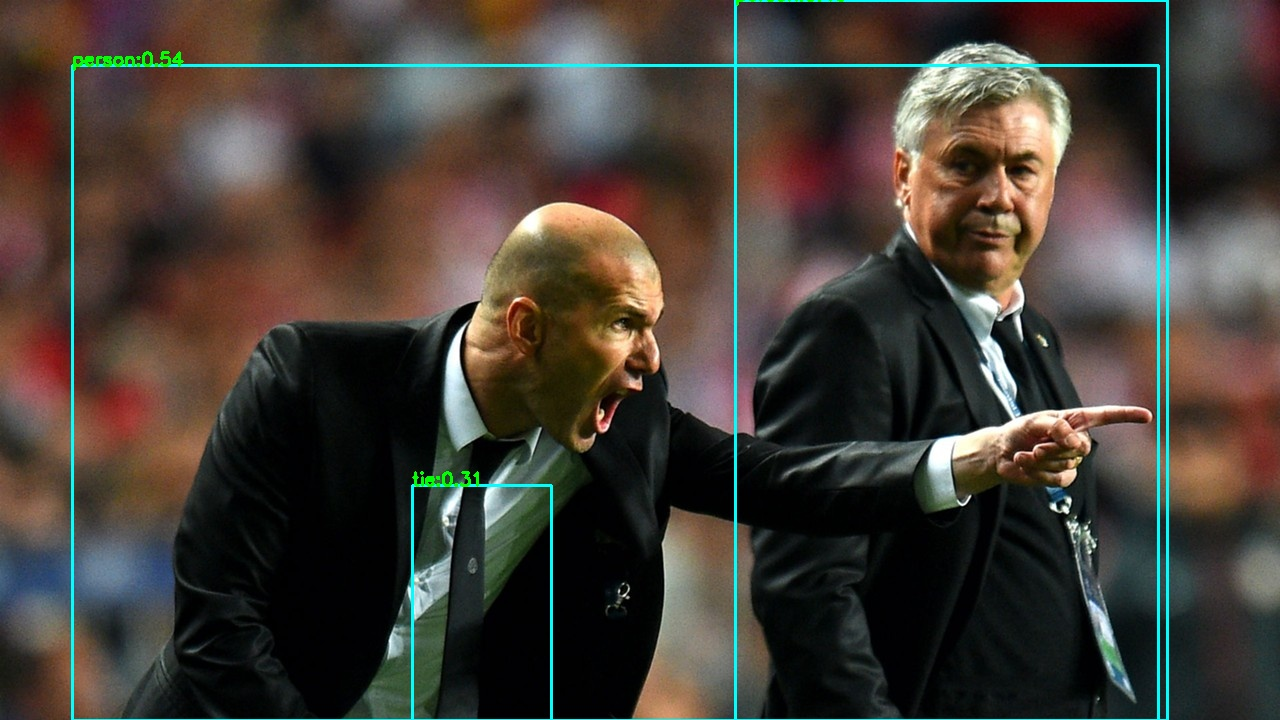
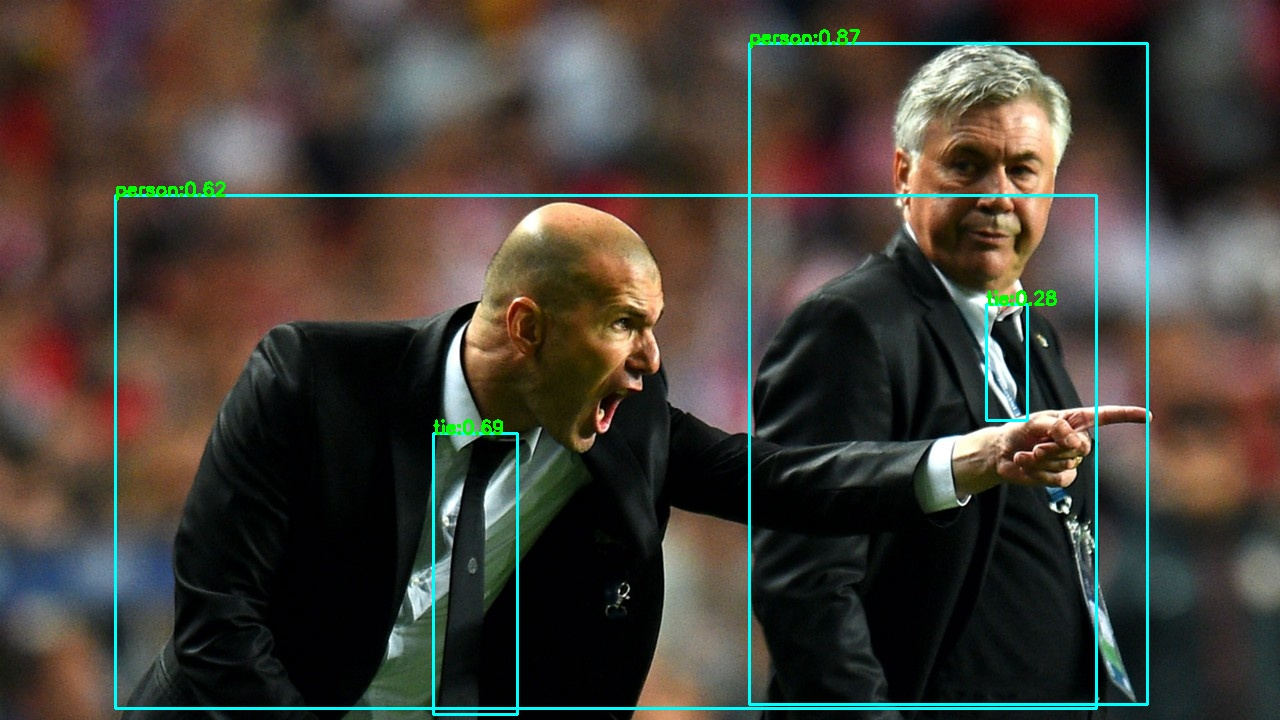
fixed YOLOX and YOLOV5 preprocess (#80)

Changed region(s): [[0.0312, 0.0, 0.9375, 1.0]]

diff --git a/lite/mnn/cv/mnn_yolox.cpp b/lite/mnn/cv/mnn_yolox.cpp
@@ -25,10 +25,9 @@ inline void MNNYoloX::initialize_pretreat()
   );
 }
 
-void MNNYoloX::transform(const cv::Mat &mat)
+void MNNYoloX::transform(const cv::Mat &mat_rs)
 {
-  cv::Mat canvas = mat.clone();
-  // cv::resize(canvas, canvas, cv::Size(input_width, input_height));
+  cv::Mat canvas = mat_rs.clone();
   // normalize & HWC -> CHW & BGR -> RGB
   pretreat->convert(canvas.data, input_width, input_height, canvas.step[0], input_tensor);
 }
@@ -75,6 +74,9 @@ void MNNYoloX::detect(const cv::Mat &mat, std::vector<types::Boxf> &detected_box
                       unsigned int topk, unsigned int nms_type)
 {
   if (mat.empty()) return;
+  int img_height = static_cast<int>(mat.rows);
+  int img_width = static_cast<int>(mat.cols);
+
   // resize & unscale
   cv::Mat mat_rs;
   YoloXScaleParams scale_params;
@@ -87,7 +89,7 @@ void MNNYoloX::detect(const cv::Mat &mat, std::vector<types::Boxf> &detected_box
   auto output_tensors = mnn_interpreter->getSessionOutputAll(mnn_session);
   // 3. rescale & exclude.
   std::vector<types::Boxf> bbox_collection;
-  this->generate_bboxes(scale_params, bbox_collection, output_tensors, score_threshold);
+  this->generate_bboxes(scale_params, bbox_collection, output_tensors, score_threshold, img_height, img_width);
   // 4. hard|blend|offset nms with topk.
   this->nms(bbox_collection, detected_boxes, iou_threshold, topk, nms_type);
 }
@@ -122,7 +124,8 @@ void MNNYoloX::generate_anchors(const int target_height,
 void MNNYoloX::generate_bboxes(const YoloXScaleParams &scale_params,
                                std::vector<types::Boxf> &bbox_collection,
                                const std::map<std::string, MNN::Tensor *> &output_tensors,
-                               float score_threshold)
+                               float score_threshold, int img_height,
+                               int img_width)
 {
   // device tensors
   auto device_pred_ptr = output_tensors.at("outputs");
@@ -133,8 +136,6 @@ void MNNYoloX::generate_bboxes(const YoloXScaleParams &scale_params,
   auto pred_dims = host_pred_tensor.shape();
   const unsigned int num_anchors = pred_dims.at(1); // n = ?
   const unsigned int num_classes = pred_dims.at(2) - 5;
-  // const float scale_height = img_height / (float) input_height;
-  // const float scale_width = img_width / (float) input_width;
 
   std::vector<YoloXAnchor> anchors;
   std::vector<int> strides = {8, 16, 32}; // might have stride=64
@@ -181,12 +182,16 @@ void MNNYoloX::generate_bboxes(const YoloXScaleParams &scale_params,
     float cy = (dy + (float) grid1) * (float) stride;
     float w = std::exp(dw) * (float) stride;
     float h = std::exp(dh) * (float) stride;
+    float x1 = ((cx - w / 2.f) - (float) dw_) / r_;
+    float y1 = ((cy - h / 2.f) - (float) dh_) / r_;
+    float x2 = ((cx + w / 2.f) - (float) dw_) / r_;
+    float y2 = ((cy + h / 2.f) - (float) dh_) / r_;
 
     types::Boxf box;
-    box.x1 = ((cx - w / 2.f) - (float) dw_) / r_;
-    box.y1 = ((cy - h / 2.f) - (float) dh_) / r_;
-    box.x2 = ((cx + w / 2.f) - (float) dw_) / r_;
-    box.y2 = ((cy + h / 2.f) - (float) dh_) / r_;
+    box.x1 = std::max(0.f, x1);
+    box.y1 = std::max(0.f, y1);
+    box.x2 = std::min(x2, (float) img_width);
+    box.y2 = std::min(y2, (float) img_height);
     box.score = conf;
     box.label = label;
     box.label_text = class_names[label];

diff --git a/lite/tnn/cv/tnn_yolox.cpp b/lite/tnn/cv/tnn_yolox.cpp
@@ -18,7 +18,6 @@ TNNYoloX::TNNYoloX(const std::string &_proto_path,
 void TNNYoloX::transform(const cv::Mat &mat_rs)
 {
   cv::Mat canvas = mat_rs.clone();
-  // cv::resize(canvas, canvas, cv::Size(input_width, input_height));
   cv::cvtColor(canvas, canvas, cv::COLOR_BGR2RGB);
   // push into input_mat
   input_mat = std::make_shared<tnn::Mat>(input_device_type, tnn::N8UC3,
@@ -73,7 +72,8 @@ void TNNYoloX::detect(const cv::Mat &mat, std::vector<types::Boxf> &detected_box
                       unsigned int topk, unsigned int nms_type)
 {
   if (mat.empty()) return;
-
+  int img_height = static_cast<int>(mat.rows);
+  int img_width = static_cast<int>(mat.cols);
   // resize & unscale
   cv::Mat mat_rs;
   YoloXScaleParams scale_params;
@@ -122,7 +122,7 @@ void TNNYoloX::detect(const cv::Mat &mat, std::vector<types::Boxf> &detected_box
   }
   // 5. rescale & exclude.
   std::vector<types::Boxf> bbox_collection;
-  this->generate_bboxes(scale_params, bbox_collection, pred_mat, score_threshold);
+  this->generate_bboxes(scale_params, bbox_collection, pred_mat, score_threshold, img_height, img_width);
   // 6. hard|blend|offset nms with topk.
   this->nms(bbox_collection, detected_boxes, iou_threshold, topk, nms_type);
 }
@@ -157,13 +157,12 @@ void TNNYoloX::generate_anchors(const int target_height,
 void TNNYoloX::generate_bboxes(const YoloXScaleParams &scale_params,
                                std::vector<types::Boxf> &bbox_collection,
                                const std::shared_ptr<tnn::Mat> &pred_mat,
-                               float score_threshold)
+                               float score_threshold, int img_height,
+                               int img_width)
 {
   auto pred_dims = pred_mat->GetDims();
   const unsigned int num_anchors = pred_dims.at(1); // n = ?
   const unsigned int num_classes = pred_dims.at(2) - 5;
-  // const float scale_height = img_height / (float) input_height;
-  // const float scale_width = img_width / (float) input_width;
 
   std::vector<YoloXAnchor> anchors;
   std::vector<int> strides = {8, 16, 32}; // might have stride=64
@@ -210,12 +209,16 @@ void TNNYoloX::generate_bboxes(const YoloXScaleParams &scale_params,
     float cy = (dy + (float) grid1) * (float) stride;
     float w = std::exp(dw) * (float) stride;
     float h = std::exp(dh) * (float) stride;
+    float x1 = ((cx - w / 2.f) - (float) dw_) / r_;
+    float y1 = ((cy - h / 2.f) - (float) dh_) / r_;
+    float x2 = ((cx + w / 2.f) - (float) dw_) / r_;
+    float y2 = ((cy + h / 2.f) - (float) dh_) / r_;
 
     types::Boxf box;
-    box.x1 = ((cx - w / 2.f) - (float) dw_) / r_;
-    box.y1 = ((cy - h / 2.f) - (float) dh_) / r_;
-    box.x2 = ((cx + w / 2.f) - (float) dw_) / r_;
-    box.y2 = ((cy + h / 2.f) - (float) dh_) / r_;
+    box.x1 = std::max(0.f, x1);
+    box.y1 = std::max(0.f, y1);
+    box.x2 = std::min(x2, (float) img_width);
+    box.y2 = std::min(y2, (float) img_height);
     box.score = conf;
     box.label = label;
     box.label_text = class_names[label];

diff --git a/lite/ort/cv/yolox.cpp b/lite/ort/cv/yolox.cpp
@@ -71,6 +71,8 @@ void YoloX::detect(const cv::Mat &mat, std::vector<types::Boxf> &detected_boxes,
   if (mat.empty()) return;
   const int input_height = input_node_dims.at(2);
   const int input_width = input_node_dims.at(3);
+  int img_height = static_cast<int>(mat.rows);
+  int img_width = static_cast<int>(mat.cols);
 
   // resize & unscale
   cv::Mat mat_rs;
@@ -86,7 +88,7 @@ void YoloX::detect(const cv::Mat &mat, std::vector<types::Boxf> &detected_boxes,
   );
   // 3. rescale & exclude.
   std::vector<types::Boxf> bbox_collection;
-  this->generate_bboxes(scale_params, bbox_collection, output_tensors, score_threshold);
+  this->generate_bboxes(scale_params, bbox_collection, output_tensors, score_threshold, img_height, img_width);
   // 4. hard|blend|offset nms with topk.
   this->nms(bbox_collection, detected_boxes, iou_threshold, topk, nms_type);
 }
@@ -148,7 +150,8 @@ void YoloX::generate_anchors(const int target_height,
 void YoloX::generate_bboxes(const YoloXScaleParams &scale_params,
                             std::vector<types::Boxf> &bbox_collection,
                             std::vector<Ort::Value> &output_tensors,
-                            float score_threshold)
+                            float score_threshold, int img_height,
+                            int img_width)
 {
   Ort::Value &pred = output_tensors.at(0); // (1,n,85=5+80=cxcy+cwch+obj_conf+cls_conf)
   auto pred_dims = output_node_dims.at(0); // (1,n,85)
@@ -156,8 +159,6 @@ void YoloX::generate_bboxes(const YoloXScaleParams &scale_params,
   const unsigned int num_classes = pred_dims.at(2) - 5;
   const float input_height = static_cast<float>(input_node_dims.at(2)); // e.g 640
   const float input_width = static_cast<float>(input_node_dims.at(3)); // e.g 640
-  // const float scale_height = img_height / input_height;
-  // const float scale_width = img_width / input_width;
 
   std::vector<YoloXAnchor> anchors;
   std::vector<int> strides = {8, 16, 32}; // might have stride=64
@@ -201,12 +202,16 @@ void YoloX::generate_bboxes(const YoloXScaleParams &scale_params,
     float cy = (dy + (float) grid1) * (float) stride;
     float w = std::exp(dw) * (float) stride;
     float h = std::exp(dh) * (float) stride;
+    float x1 = ((cx - w / 2.f) - (float) dw_) / r_;
+    float y1 = ((cy - h / 2.f) - (float) dh_) / r_;
+    float x2 = ((cx + w / 2.f) - (float) dw_) / r_;
+    float y2 = ((cy + h / 2.f) - (float) dh_) / r_;
 
     types::Boxf box;
-    box.x1 = ((cx - w / 2.f) - (float) dw_) / r_;
-    box.y1 = ((cy - h / 2.f) - (float) dh_) / r_;
-    box.x2 = ((cx + w / 2.f) - (float) dw_) / r_;
-    box.y2 = ((cy + h / 2.f) - (float) dh_) / r_;
+    box.x1 = std::max(0.f, x1);
+    box.y1 = std::max(0.f, y1);
+    box.x2 = std::min(x2, (float) img_width);
+    box.y2 = std::min(y2, (float) img_height);
     box.score = conf;
     box.label = label;
     box.label_text = class_names[label];

diff --git a/lite/mnn/cv/mnn_yolox.h b/lite/mnn/cv/mnn_yolox.h
@@ -72,7 +72,8 @@ namespace mnncv
     void generate_bboxes(const YoloXScaleParams &scale_params,
                          std::vector<types::Boxf> &bbox_collection,
                          const std::map<std::string, MNN::Tensor *> &output_tensors,
-                         float score_threshold); // rescale & exclude
+                         float score_threshold, int img_height,
+                         int img_width); // rescale & exclude
 
     void nms(std::vector<types::Boxf> &input, std::vector<types::Boxf> &output,
              float iou_threshold, unsigned int topk, unsigned int nms_type);

diff --git a/lite/tnn/cv/tnn_yolox.h b/lite/tnn/cv/tnn_yolox.h
@@ -73,7 +73,8 @@ namespace tnncv
     void generate_bboxes(const YoloXScaleParams &scale_params,
                          std::vector<types::Boxf> &bbox_collection,
                          const std::shared_ptr<tnn::Mat> &pred_mat,
-                         float score_threshold); // rescale & exclude
+                         float score_threshold, int img_height,
+                         int img_width); // rescale & exclude
 
     void nms(std::vector<types::Boxf> &input, std::vector<types::Boxf> &output,
              float iou_threshold, unsigned int topk, unsigned int nms_type);

diff --git a/lite/ort/cv/yolox.h b/lite/ort/cv/yolox.h
@@ -74,7 +74,8 @@ namespace ortcv
     void generate_bboxes(const YoloXScaleParams &scale_params,
                          std::vector<types::Boxf> &bbox_collection,
                          std::vector<Ort::Value> &output_tensors,
-                         float score_threshold); // rescale & exclude
+                         float score_threshold, int img_height,
+                         int img_width); // rescale & exclude
 
     void nms(std::vector<types::Boxf> &input, std::vector<types::Boxf> &output,
              float iou_threshold, unsigned int topk, unsigned int nms_type);

diff --git a/lite/ort/cv/yolov5.cpp b/lite/ort/cv/yolov5.cpp
@@ -75,7 +75,7 @@ void YoloV5::detect(const cv::Mat &mat, std::vector<types::Boxf> &detected_boxes
   this->resize_unscale(mat, mat_rs, input_height, input_width, scale_params);
 
   // 1. make input tensor
-  Ort::Value input_tensor = this->transform(mat);
+  Ort::Value input_tensor = this->transform(mat_rs);
   // 2. inference scores & boxes.
   auto output_tensors = ort_session->Run(
       Ort::RunOptions{nullptr}, input_node_names.data(),
